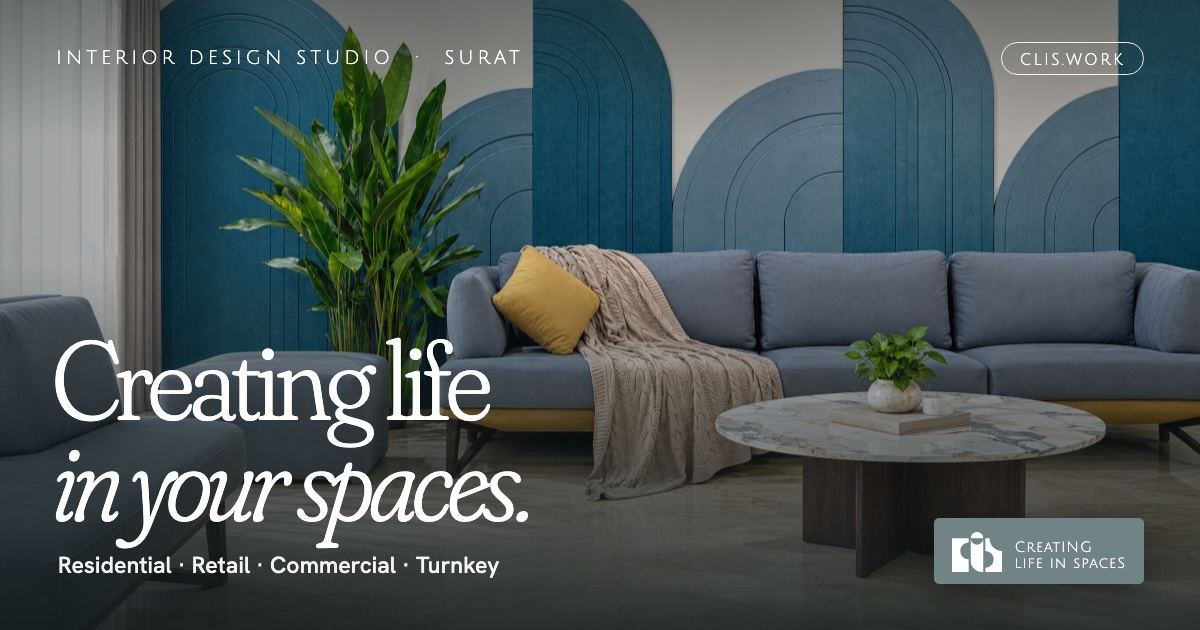
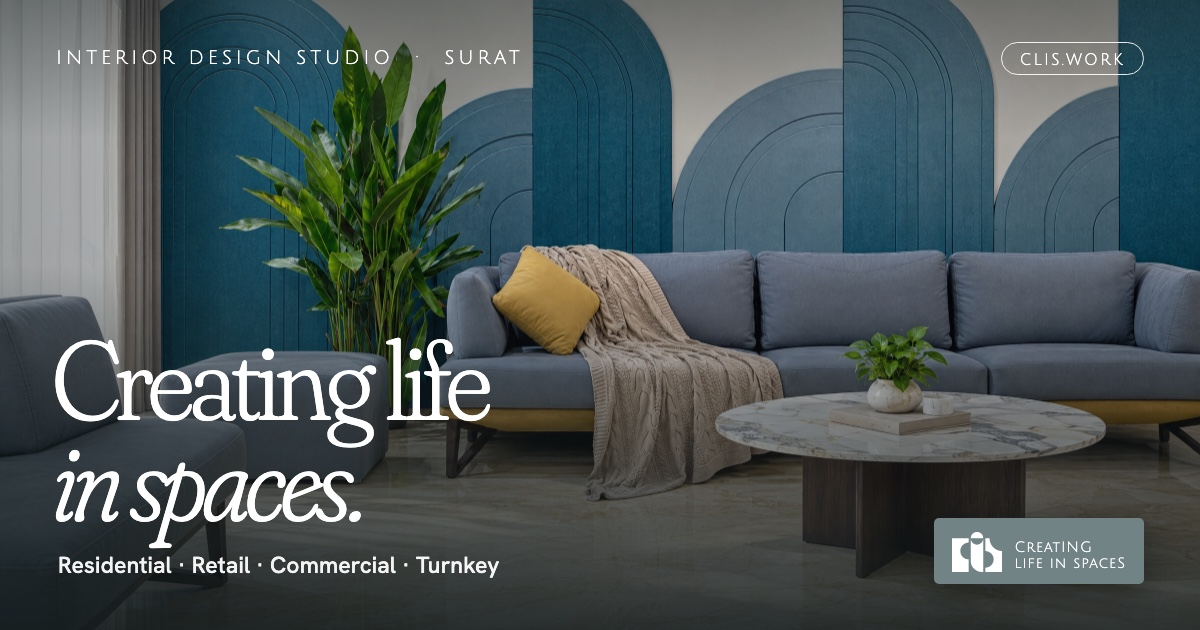
Use the studio's name line: Creating life in spaces
The hero headline and the link-preview image read "Creating life in
your spaces." CLIS is short for Creating Life In Spaces, so both now
read "Creating life in spaces." The share image alt text matches.

Changed region(s): [[0.0925, 0.7238, 0.4625, 0.8746]]

diff --git a/index.html b/index.html
@@ -24,7 +24,7 @@
   <meta property="og:image:type" content="image/jpeg">
   <meta property="og:image:width" content="1200">
   <meta property="og:image:height" content="630">
-  <meta property="og:image:alt" content="A CLIS lounge with arched blue wall panels and a grey sofa, with the line: Creating life in your spaces.">
+  <meta property="og:image:alt" content="A CLIS lounge with arched blue wall panels and a grey sofa, with the line: Creating life in spaces.">
   <meta name="twitter:card" content="summary_large_image">
   <meta name="twitter:title" content="CLIS — Creating Life In Spaces | Interior Design Studio, Surat">
   <meta name="twitter:description" content="Homes, villas, stores and offices, designed and delivered turnkey in Surat.">
@@ -198,7 +198,7 @@
         <p class="eyebrow hero__eyebrow">Interior design studio · Surat, Gujarat</p>
         <h1 class="hero__title">
           <span class="line"><span>Creating life</span></span>
-          <span class="line"><span><em>in your spaces.</em></span></span>
+          <span class="line"><span><em>in spaces.</em></span></span>
         </h1>
       </div>
 
